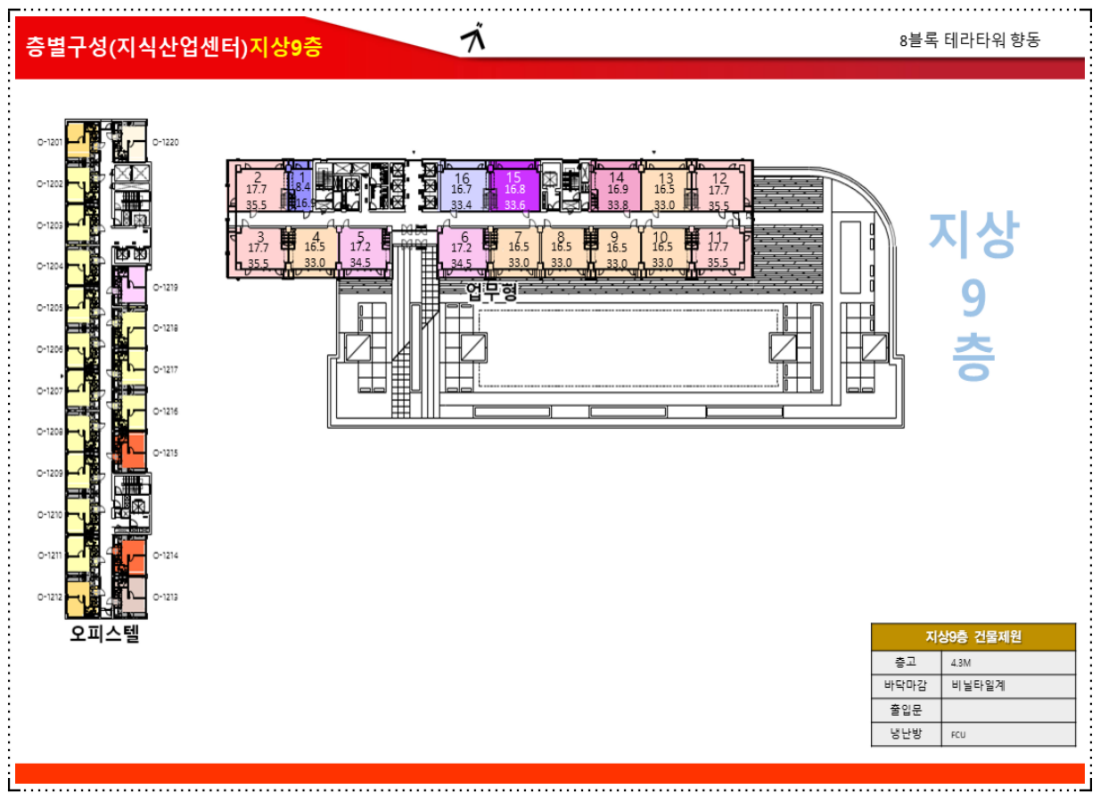
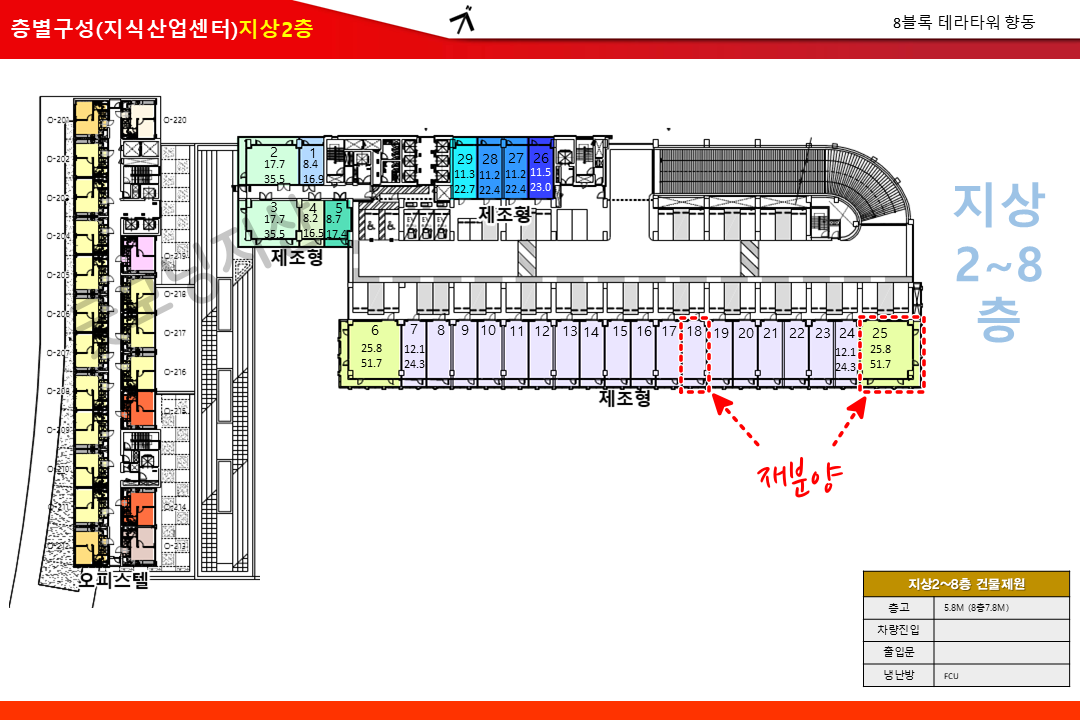
8블럭 수정

diff --git a/dream/templates/index.html b/dream/templates/index.html
@@ -198,6 +198,8 @@
 
                         <a href="https://o1026357136.modoo.at" target="_blank "><img src="{% static 'img/지도/마곡.png' %}" class="img-fluid mt-5 rounded" alt="마곡" style="width: 1100px;"></a>
 
+                        <a href="https://xn--or3b91dmzhwwci2mikh.com/block8/" target="_blank "><img src="{% static 'img/지도/8블럭 재분양 안내1.png' %}" class="img-fluid mt-5 rounded" alt="8블럭" style="width: 1100px;"></a>
+
                         <a href="https://o231585517.modoo.at/?link=7qbdz3sm" target="_blank "><img src="{% static 'img/지도/구로.jpg' %}" class="img-fluid mt-5 rounded" alt="구로" style="width: 1100px;"></a>
                         
 

diff --git a/dream/templates/8block.html b/dream/templates/8block.html
@@ -40,7 +40,7 @@
               <div class="row">
                 <div class="col-md-12">
                 <div class="title-box" style="text-align:center;">
-                  {% if forloop.counter == 2 %}<a href="https://jjisanlove337.modoo.at/?link=28l95uzm" target="_blank">{% endif %}<img src="{% static i %}" alt="" class="img-fluid mt-4 rounded"></a>
+                  {% if forloop.counter == 3 %}<a href="https://jjisanlove337.modoo.at/?link=28l95uzm" target="_blank">{% endif %}<img src="{% static i %}" alt="" class="img-fluid mt-4 rounded"></a>
                 </div>
                 </div>
               </div>

diff --git a/dream/views.py b/dream/views.py
@@ -34,7 +34,7 @@ def block7(request):
     return render(request, '7block.html', {'image_files': image_files, 'image_files2': image_files2,})
 
 def block8(request):
-    image_files = ['img/8블럭/8BL블럭 안내.png', 'img/8블럭/향동8대문.png', 'img/8블럭/향8개요.png', 'img/8블럭/8특징1100_800.png',]  # 변경 가능
+    image_files = ['img/8블럭/8BL블럭 안내.png', 'img/8블럭/향8 재분양.png', 'img/8블럭/향동8대문.png', 'img/8블럭/향8개요.png', 'img/8블럭/8특징1100_800.png',]  # 변경 가능
     image_files2 = os.listdir('./static/img/8블럭/향8배치도')
     prefix = 'img/8블럭/향8배치도/'
     image_files2 = [prefix + file_name for file_name in image_files2]
